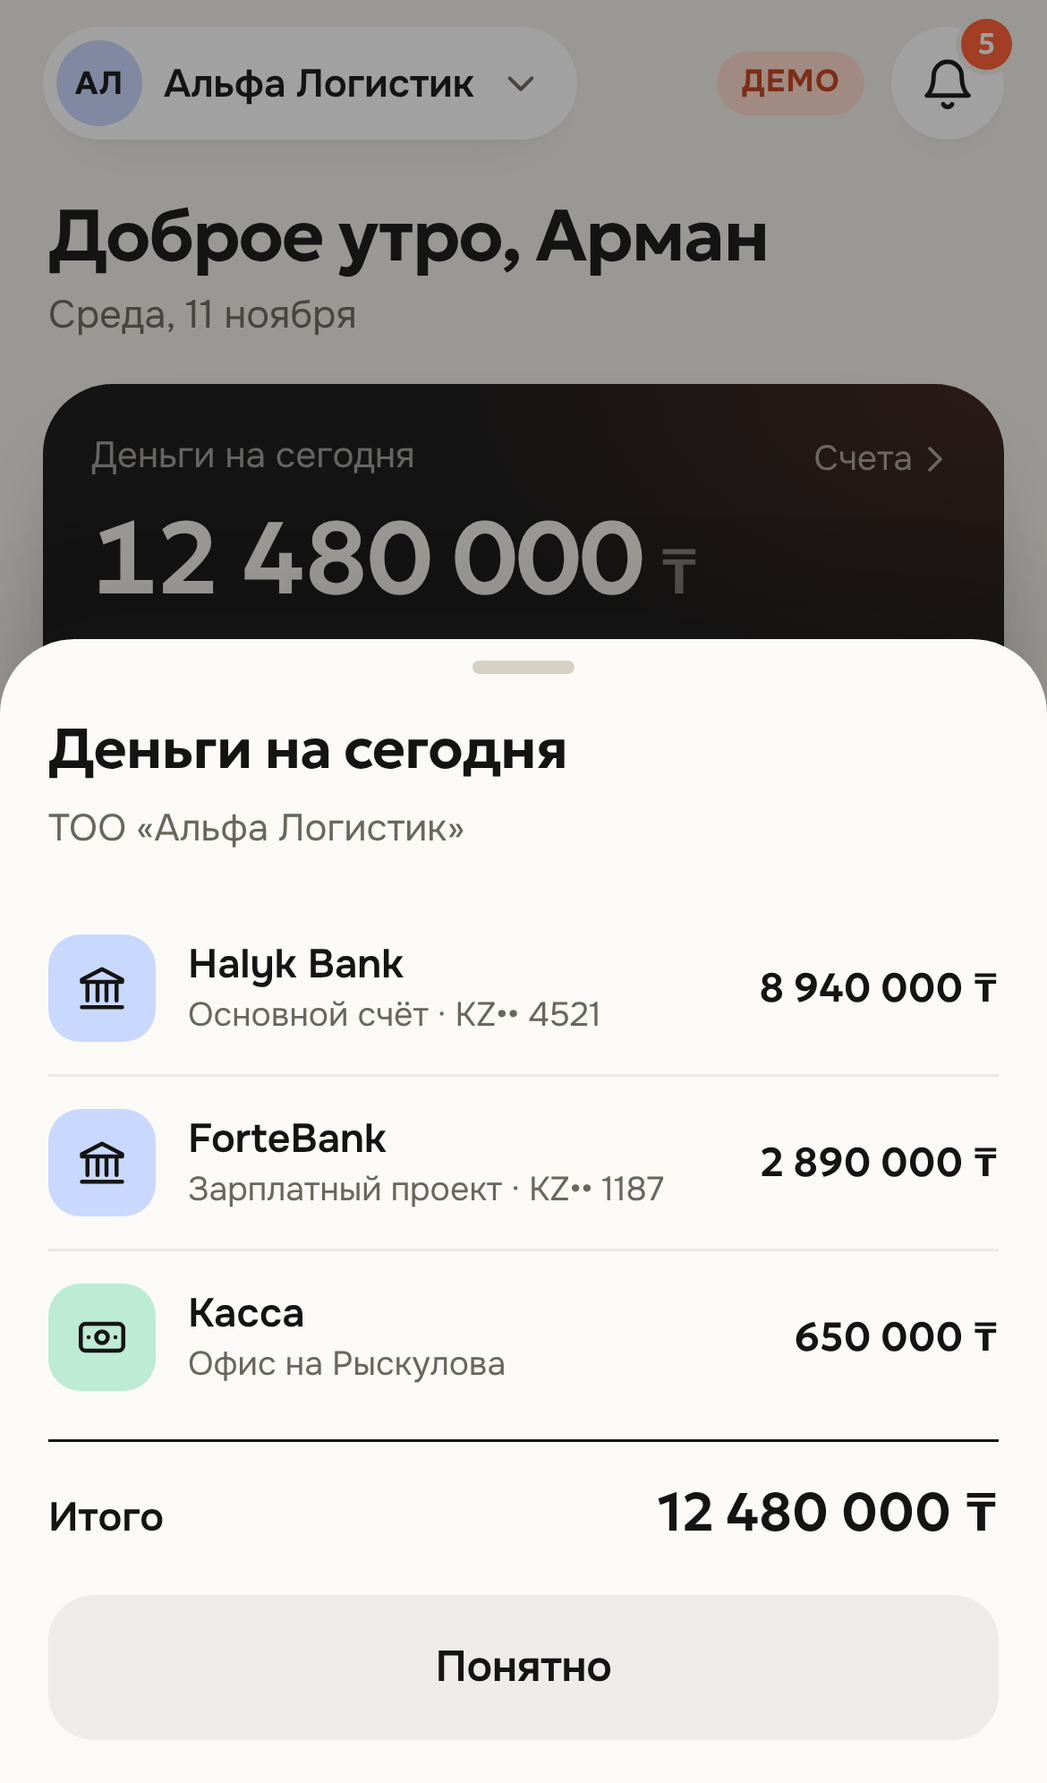
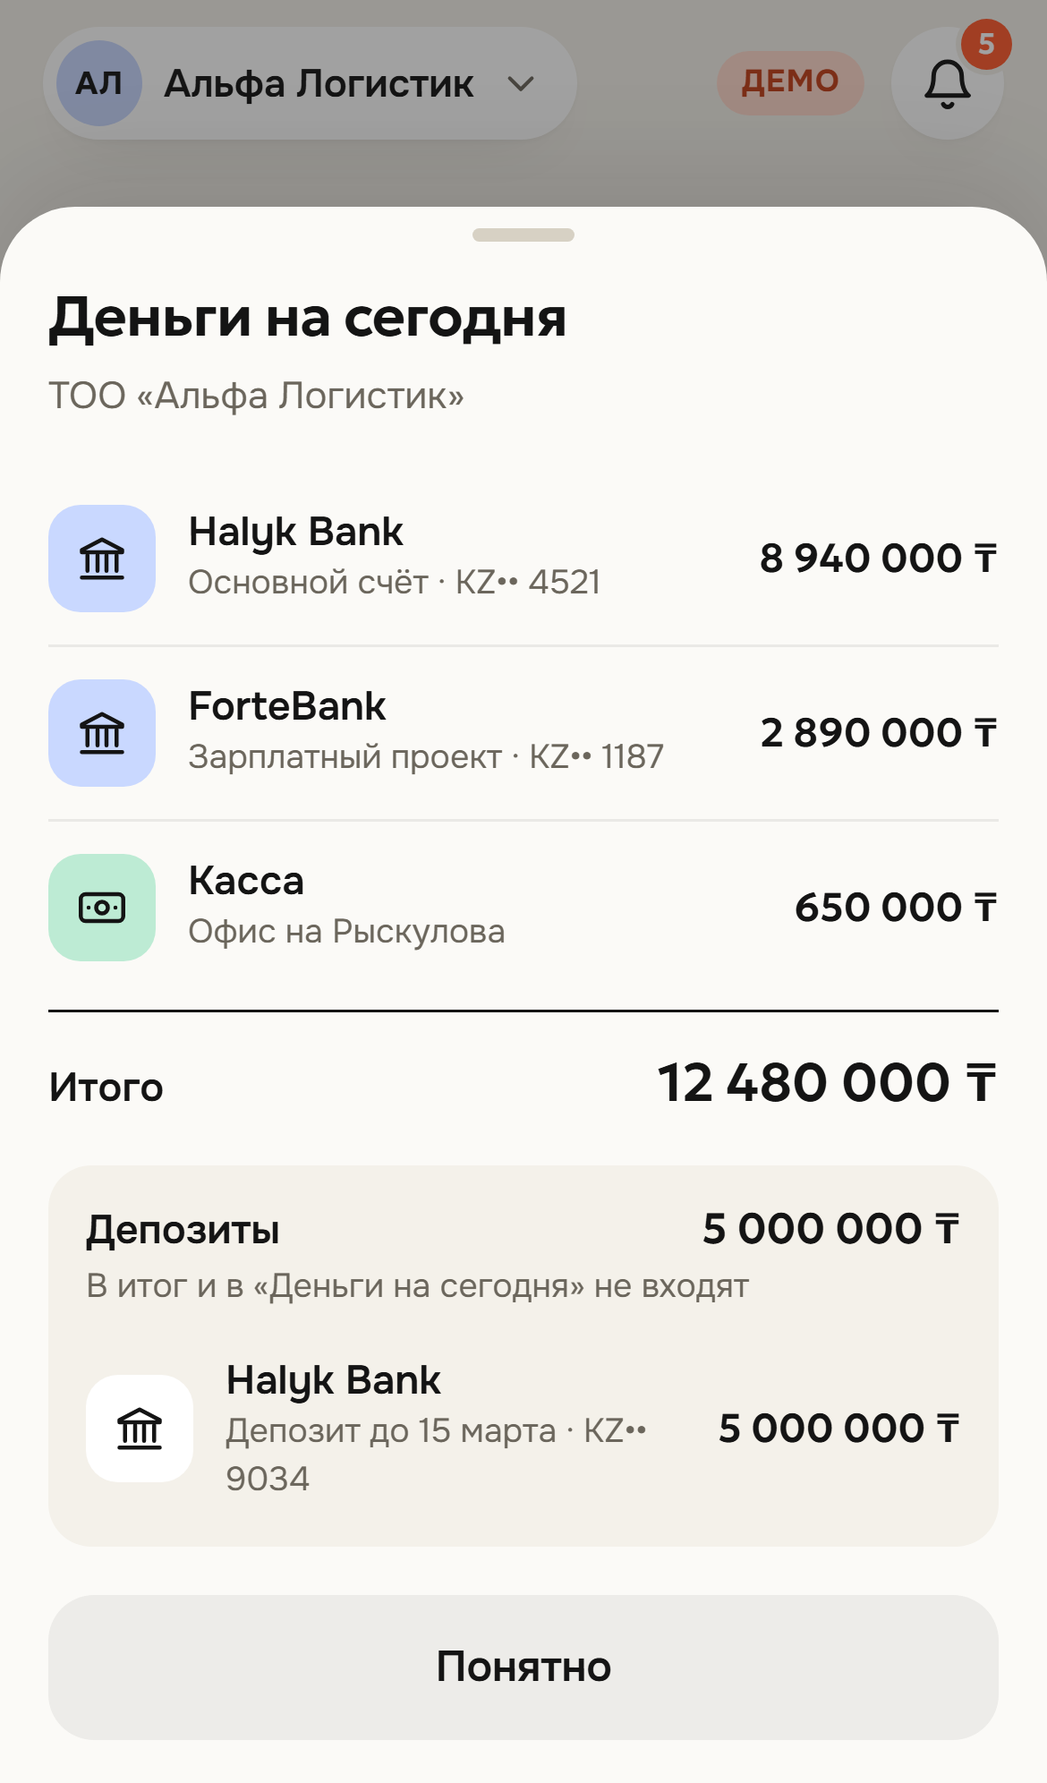
1.2.3: лист «Счета» — счета и кассы, итого, депозиты отдельно под итогом
- «Итого» = total_kzt сервера (та же цифра, что «Деньги на сегодня»); счета с deposit: true —
  отдельным блоком под итогом с собственной суммой, в итог не входят
- 501 → «Остатки по счетам появятся после обновления базы», 403 report_unavailable →
  «Остатки по счетам сейчас недоступны»: текст в листе, не всплывающая ошибка
- два нажатия, пока учёт отвечает, — один запрос; длинный список прокручивается до кнопки
- отчёты accounts и calendar в reports у /orgs на вкладку «Отчёты» не попадают (тест)
- демо: депозит в первой организации, в «Деньги на сегодня» не входит
- tests/replay.cjs: прогон снятого ответа /accounts, сверка total_kzt со сводкой

diff --git a/docs/js/screens.js b/docs/js/screens.js
@@ -1130,22 +1130,47 @@ actions['push-enable'] = async () => {
   if (location.hash.startsWith('#/profile')) nav.rerender();
 };
 
+// Лист «Счета»: счета и кассы, «Итого» (та же цифра, что «Деньги на сегодня» на главной), ниже — депозиты, которые
+// в итог не входят. Остатков база ещё не отдаёт (501) или раздел выключен в 1С (403) — спокойный текст в листе.
+const accRow = (a) => `<div class="acc-row${a.deposit ? ' dep' : ''}">
+  <span class="acc-ic ${a.type === 'cash' ? 'cash' : 'bank'}">${a.type === 'cash' ? I.cash : I.bank}</span>
+  <span class="acc-name"><b>${H(a.name)}</b><small>${H(a.note || '')}</small></span>
+  <b class="acc-sum">${money(a.amount)}</b>
+</div>`;
+
+function accountsOff(kind, title, text = '') {
+  openSheet(`<div class="sheet-title">Деньги на сегодня</div>
+    <div class="acc-off" data-acc-off="${kind}">
+      <span class="acc-off-ic">${I.info}</span>
+      <b>${title}</b>${text ? `<span>${text}</span>` : ''}
+    </div>
+    <button class="btn btn-secondary btn-block" data-act="sheet-close">Понятно</button>`);
+}
+
 actions.accounts = async () => {
+  if (ui.accLoading) return; // второй тап, пока учёт отвечает, второго запроса не шлёт
+  ui.accLoading = true;
   try {
     const d = await api.accounts(api.orgId());
+    const deps = d.deposits || [];
     openSheet(`<div class="sheet-title">Деньги на сегодня</div>
       <div class="sheet-sub">${H(d.orgName || '')}</div>
-      <div class="acc-list">
-        ${d.items.map((a) => `<div class="acc-row">
-          <span class="acc-ic ${a.type === 'cash' ? 'cash' : 'bank'}">${a.type === 'cash' ? I.cash : I.bank}</span>
-          <span class="acc-name"><b>${H(a.name)}</b><small>${H(a.note || '')}</small></span>
-          <b class="acc-sum">${money(a.amount)}</b>
-        </div>`).join('')}
+      <div class="acc-list" data-acc="main">
+        ${d.items.length ? d.items.map(accRow).join('') : '<div class="acc-none">Счетов и касс с остатком нет</div>'}
       </div>
       <div class="acc-total"><span>Итого</span><b>${money(d.total)}</b></div>
+      ${deps.length ? `<div class="acc-dep" data-acc="deposits">
+        <div class="acc-dep-head"><span>Депозиты</span><b>${money(d.depositsTotal)}</b></div>
+        <div class="acc-dep-note">В итог и в «Деньги на сегодня» не входят</div>
+        <div class="acc-list">${deps.map(accRow).join('')}</div>
+      </div>` : ''}
       <button class="btn btn-secondary btn-block" data-act="sheet-close">Понятно</button>`);
   } catch (e) {
-    actionError(e);
+    if (isLater(e)) accountsOff('later', 'Остатки по счетам появятся после обновления базы');
+    else if (e instanceof ApiError && (e.code === 'report_unavailable' || e.code === 'forbidden')) accountsOff('off', 'Остатки по счетам сейчас недоступны', 'Доступ к разделам приложения включает администратор ФинПульса в 1С вашей компании.');
+    else actionError(e);
+  } finally {
+    ui.accLoading = false;
   }
 };
 

diff --git a/docs/js/api/server.js b/docs/js/api/server.js
@@ -363,17 +363,26 @@ function initialsOf(name) {
 const agingDto = (a) => ({ days_0_30: (a && a.days_0_30) || 0, days_31_60: (a && a.days_31_60) || 0, days_over_60: (a && a.days_over_60) || 0 });
 
 // ---------- счета (5.2) ----------
+// «Итого» — total_kzt сервера как есть: та же цифра, что «Деньги на сегодня» на главной. Депозиты (deposit: true)
+// в неё не входят и идут отдельным списком под итогом; их сумму складываем сами — в контракте такого поля нет.
+// Порядок внутри списков — как прислал сервер, только кассы после банковских счетов.
 export async function accounts(id) {
   const [r, org] = await Promise.all([getJSON(orgPath(id, '/accounts')), orgInfo(id)]);
+  const all = (r.items || []).map((a) => ({
+    name: a.name || (a.type === 'cash' ? 'Касса' : 'Счёт'),
+    note: [a.note, a.number_masked, a.currency && a.currency !== 'KZT' ? `${fmt(a.balance)} ${a.currency}` : null].filter(Boolean).join(' · '),
+    type: a.type === 'cash' ? 'cash' : 'bank',
+    amount: Number(a.balance_kzt ?? a.balance) || 0,
+    deposit: a.deposit === true,
+  }));
+  const byType = (list) => [...list.filter((a) => a.type === 'bank'), ...list.filter((a) => a.type === 'cash')];
+  const deposits = byType(all.filter((a) => a.deposit));
   return {
     orgName: org.name,
     total: r.total_kzt,
-    items: (r.items || []).map((a) => ({
-      name: a.name,
-      note: [a.note, a.number_masked, a.deposit ? 'депозит' : null, a.currency && a.currency !== 'KZT' ? `${fmt(a.balance)} ${a.currency}` : null].filter(Boolean).join(' · '),
-      type: a.type === 'cash' ? 'cash' : 'bank',
-      amount: a.balance_kzt,
-    })),
+    items: byType(all.filter((a) => !a.deposit)),
+    deposits,
+    depositsTotal: deposits.reduce((t, a) => t + a.amount, 0),
   };
 }
 

diff --git a/docs/css/app.css b/docs/css/app.css
@@ -579,6 +579,21 @@ button.flow:active { background: var(--paper); }
 .acc-total { display: flex; justify-content: space-between; align-items: baseline; margin: 6px 0 18px; padding-top: 14px; border-top: 1.5px solid var(--ink); }
 .acc-total span { font-weight: 600; }
 .acc-total b { font: 600 20px/1.2 var(--f-head); }
+.acc-name small:empty { display: none; }
+.acc-total ~ .btn { flex-shrink: 0; } /* счетов много — лист прокручивается, кнопка не сжимается */
+.acc-none { padding: 14px 0; font-size: 14px; color: var(--stone); }
+/* депозиты — отдельный блок под итогом: в «Деньги на сегодня» не входят */
+.acc-dep { margin: 0 0 18px; padding: 14px 14px 4px; border-radius: 16px; background: var(--milk); }
+.acc-dep-head { display: flex; justify-content: space-between; align-items: baseline; }
+.acc-dep-head span { font-weight: 600; }
+.acc-dep-head b { font: 600 16px/1.2 var(--f-head); white-space: nowrap; }
+.acc-dep-note { margin-top: 2px; font-size: 12.5px; color: var(--stone); }
+.acc-dep .acc-ic { background: var(--card); }
+.acc-off { display: flex; flex-direction: column; align-items: center; gap: 8px; padding: 22px 8px 24px; text-align: center; }
+.acc-off-ic { width: 48px; height: 48px; border-radius: 16px; display: grid; place-items: center; background: var(--lav); margin-bottom: 4px; }
+.acc-off-ic .ic { width: 24px; height: 24px; }
+.acc-off b { font: 600 17px/1.3 var(--f-head); }
+.acc-off span:not(.acc-off-ic) { font-size: 14px; line-height: 1.45; color: var(--stone); }
 
 .pdf-bar { display: flex; align-items: center; gap: 10px; flex-shrink: 0; }
 .pdf-bar b { flex: 1; font-size: 14px; white-space: nowrap; overflow: hidden; text-overflow: ellipsis; }

diff --git a/docs/js/config.js b/docs/js/config.js
@@ -18,7 +18,8 @@ export const CONFIG = {
   // 1.2.0 — вкладка «Отчёты» по списку отчётов организации (reports в /orgs); отчёты «Проекты» и «Отчёт по проекту».
   // 1.2.1 — календарь на настоящих данных: просроченные поступления отдельно от остатка, позиция по заявке ведёт в заявку.
   // 1.2.2 — массовое согласование: на вкладке «Ждут решения» заявки выбираются галочками и согласуются разом.
-  appVersion: '1.2.2',
+  // 1.2.3 — лист «Счета»: счета и кассы, итого, депозиты отдельно под итогом; спокойный текст, если база остатков ещё не отдаёт.
+  appVersion: '1.2.3',
 
   // Массовое согласование: брать ли в выбор заявки сверх лимита статьи. false — такие заявки согласуются только
   // по одной, из карточки (галочка неактивна, подпись «только по одной»); true — выбираются наравне с остальными,

diff --git a/docs/js/store.js b/docs/js/store.js
@@ -92,8 +92,9 @@ export const horizon = () => data.horizonDays || 28;
 export const org = (id = state.orgId) => data.orgs.find((o) => o.id === id) || data.orgs[0];
 
 export function opening(o = org()) {
-  const bank = sum(o.accounts.filter((a) => a.type === 'bank'), (a) => a.amount);
-  const cash = sum(o.accounts.filter((a) => a.type === 'cash'), (a) => a.amount);
+  // депозиты в «Деньги на сегодня» не входят: в листе «Счета» они отдельным блоком под итогом
+  const bank = sum(o.accounts.filter((a) => a.type === 'bank' && !a.deposit), (a) => a.amount);
+  const cash = sum(o.accounts.filter((a) => a.type === 'cash' && !a.deposit), (a) => a.amount);
   return { bank, cash, total: bank + cash };
 }
 

diff --git a/docs/sw.js b/docs/sw.js
@@ -1,6 +1,6 @@
 // Сервис-воркер: оболочка приложения (сначала сеть, без сети — кэш) и push-уведомления.
 // Ответы API (api.smartsol.pro) НЕ кэшируются и не проходят через кэш: данные клиента не оседают на устройстве.
-const CACHE = 'finpuls-v16';
+const CACHE = 'finpuls-v17';
 const SHELL = [
   './', './index.html', './css/app.css', './manifest.webmanifest', './data/demo.json', './data/projects.json',
   './js/app.js', './js/config.js', './js/screens.js', './js/store.js', './js/ui.js', './js/util.js', './js/icons.js', './js/push.js',

diff --git a/docs/js/api/demo.js b/docs/js/api/demo.js
@@ -212,7 +212,9 @@ export async function home(id) {
 
 export async function accounts(id) {
   const o = org(id);
-  return { orgName: o.name, total: S.opening(o).total, items: o.accounts.map((a) => ({ name: a.name, note: a.note, type: a.type, amount: a.amount })) };
+  const row = (a) => ({ name: a.name, note: a.note, type: a.type, amount: a.amount, deposit: !!a.deposit });
+  const deposits = o.accounts.filter((a) => a.deposit).map(row);
+  return { orgName: o.name, total: S.opening(o).total, items: o.accounts.filter((a) => !a.deposit).map(row), deposits, depositsTotal: sum(deposits, (a) => a.amount) };
 }
 
 // ---------- календарь ----------

diff --git a/spec/api-client.md b/spec/api-client.md
@@ -27,7 +27,7 @@
 | вход | номер телефона → «Получить код» → `POST /auth/telegram/start` (`{phone}`) → экран кода по `device`: `known` — «Введите код из Telegram», `new` — «Подтвердите вход в Telegram» (поле кода — после кнопки бота); поле из `code_length` цифр, кнопка «Войти через Telegram» (`bot_url`, сразу не открывается) → `POST /auth/telegram/poll` раз в `poll_interval` (только «вход жив» или отказ) → `POST /auth/telegram/confirm {challenge_id, code}` → токены; `POST /auth/refresh`, `/auth/logout`, `/auth/logout-all` — без тела, по cookie |
 | выбор организации | `GET /orgs`: больше одной — экран выбора, одна (и `partial: false`) — сразу главная; `partial: true` — плашка «Часть организаций недоступна»; `503` — «Нет связи с учётом компании» + «Повторить» |
 | главная | **один** `GET /orgs/{id}/summary`: название, `unread_count` (колокольчик), `threshold` (красные дни) |
-| счета | `GET /orgs/{id}/accounts` (суммы — `balance_kzt`) |
+| счета | `GET /orgs/{id}/accounts` (суммы — `balance_kzt`). С 1.2.3: «Итого» — `total_kzt` как есть (та же цифра, что `money.total` сводки); счета с `deposit: true` — отдельным блоком под итогом, в итог не входят, их сумму приложение складывает само. `501` — «Остатки по счетам появятся после обновления базы», `403 report_unavailable` — «Остатки по счетам сейчас недоступны»; оба — текст в листе, не ошибка. Отчёты `accounts` и `calendar` в `reports` у `/orgs` на вкладку «Отчёты» не попадают |
 | календарь | `GET /orgs/{id}/calendar` без параметров (сервер отдаёт 28 дней с сегодняшнего), порог — `threshold`, суммы позиций — `amount_kzt`. С 1.2.1: плашка разрыва — из `gap` ответа (то же число, что на главной); позиции с `in_totals: false` (просроченные поступления) — отдельным блоком «Просроченные поступления» под остатком на конец дня, в «Поступления» и остаток не входят; позиция с `request_id` — кнопка в карточку заявки; без `counterparty` в заголовке — `article`, а без неё — вид по `source` («Зарплата», «Налоги»); в группе больше 8 позиций — пять крупнейших и «Показать все N»; сумма в валюте — с копейками. `403 report_unavailable` — «Календарь сейчас недоступен», `501` — заглушка, как раньше |
 | заявки | `GET /orgs/{id}/requests?tab=pending|decided&limit=100&cursor` (до 5 страниц), карточка, `files/{id}` |
 | решения | `POST …/approve`, `…/reject` (+ `…/return` в переходнике) с `Idempotency-Key`; массовое согласование — те же `POST …/approve` по одной заявке, см. «Массовое согласование» |

diff --git a/README.md b/README.md
@@ -41,7 +41,7 @@
 
 - `today` — «сегодняшняя» дата демо (`"2026-11-11"`); `null` — брать реальную дату;
 - даты платежей, заявок и уведомлений заданы смещением `d` от `today` (0 — сегодня, 1 — завтра, −1 — вчера);
-- остатки на начало дня и кассовые разрывы считаются автоматически из `accounts` и `flows`;
+- остатки на начало дня и кассовые разрывы считаются автоматически из `accounts` и `flows`; счёт с `"deposit": true` в остаток не входит и показывается в листе «Счета» отдельным блоком;
 - у каждой организации свои `accounts`, `flows`, `requests`, `debtors`, `reports`, `notifications`.
 
 После правки — закоммитить в ветку, через минуту сайт обновится.
@@ -82,7 +82,7 @@ node tests/e2e.cjs                 # локально, поднимает сво
 node tests/e2e.cjs --shots         # + обновить скриншоты в /screenshots
 node tests/e2e.cjs https://finpulse.smartsol.pro/   # опубликованный сайт
 node tests/server-mock.cjs         # вход, ошибки, «1С недоступна», согласование (по одной и массовое), push — без сервера
-node tests/replay.cjs <папка>      # снятые ответы сервера (файлы JSON) → календарь и отчёты, снимки и тексты для сверки
+node tests/replay.cjs <папка>      # снятые ответы сервера (файлы JSON) → счета, календарь и отчёты, снимки и тексты для сверки
 ```
 
 Нужен Node.js 18+ и Playwright (`npm i -D playwright && npx playwright install chromium`).
